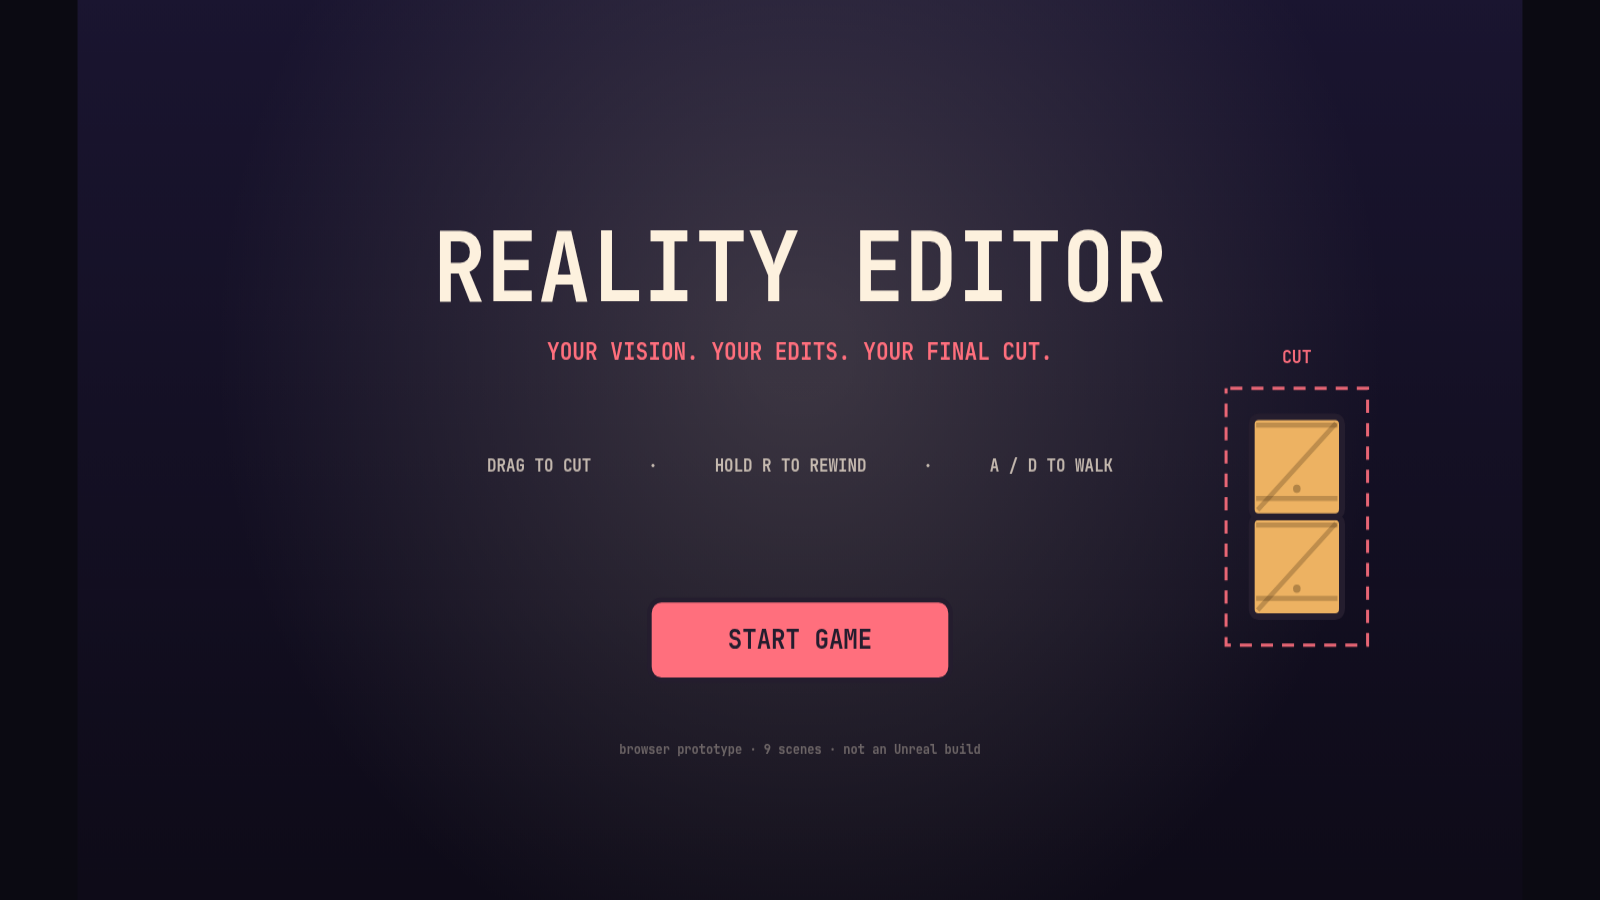
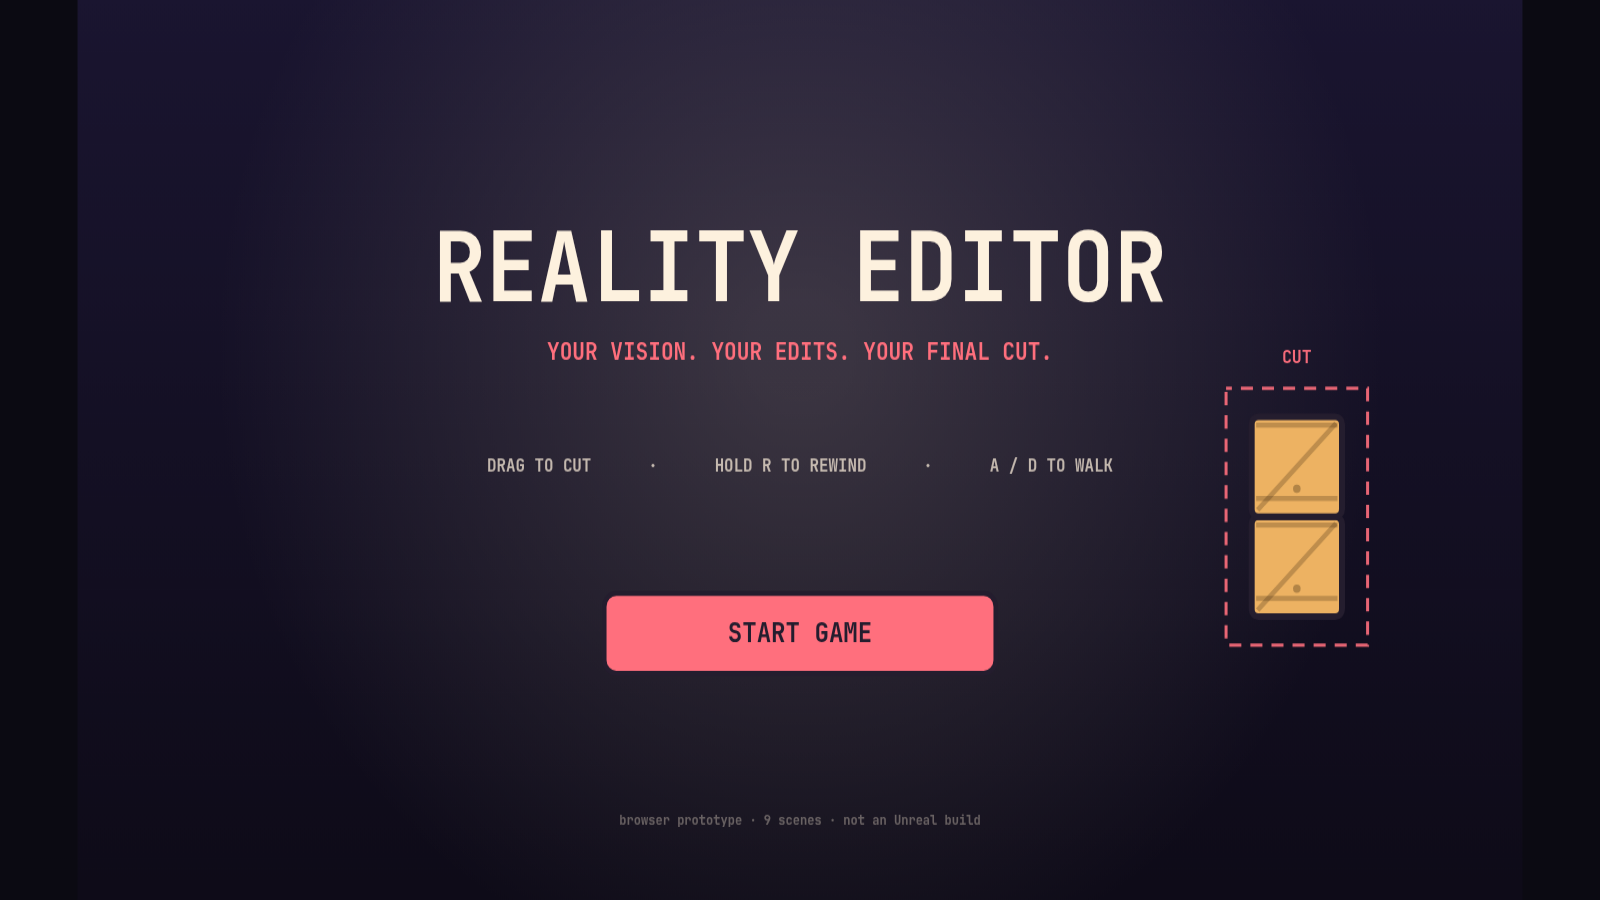
Save progress in localStorage and offer a continue button
The shoot now remembers the furthest scene unlocked, which scenes were cleared,
whether the run was finished and the best full-run time, so a player who closes
the tab can pick the run back up from the title screen. Reads are validated and
storage is optional: private mode, a strict itch iframe or a corrupt entry all
fall back to a blank save instead of breaking the game.

diff --git a/reality-editor/src/save.js b/reality-editor/src/save.js
@@ -1,0 +1,84 @@
+// Local progress, kept in localStorage.
+//
+// Nothing here is allowed to break the game: a browser that blocks storage
+// (private mode, file://, an embedded itch iframe with strict settings) simply
+// gets a blank save and no persistence. Every read is validated, so a stale or
+// hand-edited entry from an older build can't produce NaN or a scene index
+// that doesn't exist.
+
+const KEY = 'reality-editor.v1';
+
+const DEFAULTS = {
+  unlocked: 0,      // highest scene index the player may start from
+  cleared: [],      // scene indices finished at least once
+  best: null,       // { time } — fastest full run, in seconds
+  finished: false   // the ninth scene has been played through
+};
+
+function store() {
+  try {
+    const s = window.localStorage;
+    const probe = '__reality_editor_probe__';
+    s.setItem(probe, '1');
+    s.removeItem(probe);
+    return s;
+  } catch {
+    return null;
+  }
+}
+
+function clean(raw) {
+  const out = { ...DEFAULTS, cleared: [] };
+  if (!raw || typeof raw !== 'object') return out;
+
+  if (Number.isFinite(raw.unlocked)) {
+    out.unlocked = Math.max(0, Math.floor(raw.unlocked));
+  }
+  if (Array.isArray(raw.cleared)) {
+    out.cleared = [...new Set(raw.cleared.filter(n => Number.isInteger(n) && n >= 0))];
+    out.unlocked = Math.max(out.unlocked, ...out.cleared.map(n => n + 1), 0);
+  }
+  if (raw.best && Number.isFinite(raw.best.time) && raw.best.time > 0) {
+    out.best = { time: raw.best.time };
+  }
+  out.finished = !!raw.finished;
+  return out;
+}
+
+export function readSave() {
+  const s = store();
+  if (!s) return { ...DEFAULTS, cleared: [] };
+  try {
+    return clean(JSON.parse(s.getItem(KEY) || 'null'));
+  } catch {
+    return { ...DEFAULTS, cleared: [] };
+  }
+}
+
+export function writeSave(progress) {
+  const s = store();
+  if (!s) return false;
+  try {
+    const v = clean(progress);
+    s.setItem(KEY, JSON.stringify(v));
+    return true;
+  } catch {
+    return false;
+  }
+}
+
+export function clearSave() {
+  const s = store();
+  if (!s) return;
+  try {
+    s.removeItem(KEY);
+  } catch {
+    /* nothing to do */
+  }
+}
+
+// Clamp a saved scene index to the scenes this build actually has.
+export function resumeIndex(progress, levelCount) {
+  if (!levelCount) return 0;
+  return Math.min(Math.max(0, progress.unlocked | 0), levelCount - 1);
+}

diff --git a/reality-editor/src/game.js b/reality-editor/src/game.js
@@ -7,6 +7,7 @@ import { Player } from './player.js';
 import { Input } from './input.js';
 import { render, screenRectToWorld } from './render.js';
 import { audio } from './audio.js';
+import { readSave, writeSave, resumeIndex } from './save.js';
 
 const W = CONFIG.view.w;
 const H = CONFIG.view.h;
@@ -27,6 +28,7 @@ export function createGame(canvas, levelsOrLevel) {
   const view = { dpr: 1, scale: 1, ox: 0, oy: 0 };
   const cam = { x: 0, zoom: 1 };
 
+  const save = readSave();
   const world = new World(level);
   const player = new Player(level.spawn.x, level.spawn.y);
 
@@ -46,6 +48,7 @@ export function createGame(canvas, levelsOrLevel) {
     levelIndex: 0,
     levelCount: levels.length,
     level,
+    save,
     stats: null
   };
 
@@ -122,10 +125,17 @@ export function createGame(canvas, levelsOrLevel) {
     }
 
     if (game.state === 'title') {
+      const canContinue = save.unlocked > 0;
+      if (canContinue && hit(CONFIG.ui.titleContinue, click)) {
+        audio.init();
+        audio.click();
+        startRun(resumeIndex(save, levels.length));
+        return;
+      }
       if (jumpPressed || hit(CONFIG.ui.title, click)) {
         audio.init();
         audio.click();
-        startRun();
+        startRun(0);
       }
       return;
     }
@@ -256,10 +266,20 @@ export function createGame(canvas, levelsOrLevel) {
           blades: world.cutsLeft(),
           tape: world.tape
         };
+        save.cleared = [...new Set([...save.cleared, game.levelIndex])];
+
         if (game.levelIndex + 1 < levels.length) {
+          save.unlocked = Math.max(save.unlocked, game.levelIndex + 1);
+          writeSave(save);
           audio.chime();
           game.state = 'cleared';
         } else {
+          save.unlocked = Math.max(save.unlocked, game.levelIndex);
+          save.finished = true;
+          if (!save.best || game.stats.time < save.best.time) {
+            save.best = { time: game.stats.time };
+          }
+          writeSave(save);
           audio.win();
           game.state = 'won';
         }
@@ -299,6 +319,7 @@ export function createGame(canvas, levelsOrLevel) {
     view, cam, world, player, input, game,
     resize, step, draw,
     startRun, togglePause, nextLevel,
+    get save() { return save; },
     get level() { return level; },
     get state() { return game.state; }
   };

diff --git a/reality-editor/tests/tests.html b/reality-editor/tests/tests.html
@@ -419,6 +419,40 @@ st2(6);
 ok('finishing the last scene ends the run', g2.state === 'won',
   `${g2.world.level.label} ${g2.state}`);
 
+// ---- M. the save file ------------------------------------------------------
+const S = await import('../src/save.js');
+S.clearSave();
+ok('a fresh browser has no progress',
+  S.readSave().unlocked === 0 && !S.readSave().finished && S.readSave().best === null);
+
+// play scene 2 to its door and see what actually landed on disk
+g2.startRun(1);
+g2.player.place(g2.level.exit.x + 120, 726);
+st2(6);
+// (earlier tests in this page cleared other scenes, so check what this run added)
+const disk = S.readSave();
+ok('clearing a scene writes progress', disk.cleared.includes(1) && disk.unlocked >= 2,
+  `unlocked=${disk.unlocked} cleared=${disk.cleared}`);
+
+S.writeSave({ unlocked: 3, cleared: [0, 1, 2], best: { time: 312.4 }, finished: false });
+const s1 = S.readSave();
+ok('progress survives a reload', s1.unlocked === 3 && s1.cleared.length === 3 &&
+  Math.abs(s1.best.time - 312.4) < 1e-9);
+
+S.writeSave({ unlocked: 99, cleared: [0, 2, 2, 'x', -1], best: { time: 0 } });
+const s2 = S.readSave();
+ok('a damaged save is cleaned up', s2.cleared.length === 2 && s2.best === null,
+  JSON.stringify(s2));
+ok('a saved scene past the end is clamped down', S.resumeIndex(s2, 9) === 8,
+  `${S.resumeIndex(s2, 9)}`);
+
+localStorage.setItem('reality-editor.v1', '{not json');
+ok('an unreadable save is ignored', S.readSave().unlocked === 0);
+
+S.clearSave();
+ok('progress can be wiped', S.readSave().unlocked === 0 && S.readSave().best === null);
+ok('the title has a continue button', CONFIG.ui.titleContinue.length === 1);
+
 document.getElementById('out').textContent = out.join('\n');
 document.title = fail === 0 ? `TESTS PASS ${pass}/${pass}` : `TESTS FAIL ${fail}`;
 </script>

diff --git a/reality-editor/src/render.js b/reality-editor/src/render.js
@@ -820,9 +820,18 @@ function drawTitle(ctx, game, input, now) {
     'rgba(255,241,222,.72)', 'center');
 
   const b = CONFIG.ui.title[0];
-  drawButton(ctx, b, hovered(CONFIG.ui.title, input.pointer) === b, now);
+  const saved = game.save ? game.save.unlocked : 0;
+  const startLabel = saved > 0 ? 'START FROM SCENE 01' : b.label;
+  drawButton(ctx, { ...b, label: startLabel }, hovered(CONFIG.ui.title, input.pointer) === b, now);
 
-  text(ctx, `browser prototype · ${game.levelCount || 9} scenes · not an Unreal build`, 960, 900, 16,
+  if (saved > 0) {
+    const c = CONFIG.ui.titleContinue[0];
+    const sceneNo = String(saved + 1).padStart(2, '0');
+    drawButton(ctx, { ...c, label: `CONTINUE · SCENE ${sceneNo}` },
+      hovered(CONFIG.ui.titleContinue, input.pointer) === c, now);
+  }
+
+  text(ctx, `browser prototype · ${game.levelCount || 9} scenes · not an Unreal build`, 960, 985, 16,
     'rgba(255,241,222,.35)', 'center');
 }
 
@@ -861,6 +870,13 @@ function drawWon(ctx, game, input, cleared = false) {
     ['BLADES LEFT', `${st.blades}`],
     ['TAPE LEFT', `${st.tape.toFixed(1)}s`]
   ];
+
+  const best = game.save && game.save.best;
+  if (!cleared && best) {
+    const bm = Math.floor(best.time / 60);
+    const bs = Math.floor(best.time % 60);
+    rows.push(['BEST RUN', `${bm}:${String(bs).padStart(2, '0')}`]);
+  }
   rows.forEach((r, i) => {
     const y = 508 + i * 54;
     text(ctx, r[0], 780, y, 20, 'rgba(255,241,222,.55)', 'left');

diff --git a/reality-editor/src/config.js b/reality-editor/src/config.js
@@ -43,7 +43,8 @@ export const CONFIG = {
   respawn: { belowRoom: 260 },
 
   ui: {
-    title: [{ id: 'start', x: 760, y: 720, w: 400, h: 96, label: 'START GAME' }],
+    title: [{ id: 'start', x: 700, y: 712, w: 520, h: 96, label: 'START GAME' }],
+    titleContinue: [{ id: 'continue', x: 700, y: 832, w: 520, h: 84, label: 'CONTINUE' }],
     pause: [
       { id: 'resume', x: 660, y: 600, w: 600, h: 88, label: 'RESUME' },
       { id: 'restart', x: 660, y: 712, w: 600, h: 88, label: 'RESTART SCENE' }

diff --git a/reality-editor/tests/stage.html b/reality-editor/tests/stage.html
@@ -15,6 +15,13 @@ const q = new URLSearchParams(location.search);
 const scene = q.get('scene') || 'title';
 const lv = Number(q.get('level') || 0);
 
+// ?save=1 seeds local progress so the continue button and the best-run row
+// can be photographed
+if (q.get('save')) {
+  const { writeSave } = await import('../src/save.js');
+  writeSave({ unlocked: 4, cleared: [0, 1, 2, 3], best: { time: 214 }, finished: false });
+}
+
 const g = createGame(document.getElementById('game'), LEVELS);
 g.resize();
 

diff --git a/reality-editor/PROGRESS.md b/reality-editor/PROGRESS.md
@@ -97,6 +97,18 @@ while you hold R nothing refills.
 - When the drive wheel is cut and the sensor is not loaded, the hint says so:
 `THE LINE IS FROZEN OFF THE SENSOR` — *rewind past the cut* (or wait for tape).
 
+## The shoot list and the save file
+
+- **Nine scenes.** The studio plus eight, over forest / city / town / beach backdrops
+(`src/themes.js`, painted per location, still no image assets). Clearing a scene shows
+`SCENE CLEARED — n in the can · m to go` and loads the next; the ninth ends on the wrap card.
+- **Tape only refills once fully spent** (`world.rescue` latch), so the budget still bites.
+- **Progress is saved** to `localStorage` under `reality-editor.v1`: `unlocked` (furthest
+scene index), `cleared`, `best` (fastest full run) and `finished`. The title screen shows
+`CONTINUE · SCENE 0N` once anything is unlocked, and the wrap screen shows `BEST RUN`.
+- Every save read is validated and stored in a try/catch, so private mode, a strict itch
+iframe, corrupt JSON or a hand-edited entry all degrade to a blank save instead of a crash.
+
 ## Tuning findings from playing it through
 
 - **Tape was too short.** The intended route costs roughly 6s of tape rewinding the dolly and 7s parking the load, and the bot run with a 20s budget ran dry inside scene 3. `maxTape` is now **30**, which keeps the pressure without making the last puzzle unaffordable.
@@ -109,9 +121,12 @@ while you hold R nothing refills.
 - Touch layout is drawn and wired but was not exercised on a real touch device.
 - The win state is reachable only through the intended puzzle order (the corridor is gated); if a player exhausts all tape in scene 3 they restart with Backspace, which is always available.
 - The sensor window in scene 3 is generous (80px), but the load leaves it again as soon as the clock runs forward, so the cut has to land while the load is parked over the pad.
+- Save data is per browser and per origin. Local progress under `localhost:8124` does not
+carry over to the itch embed, which runs on a different origin.
+- The save has no in-game reset button yet; clearing site data is the only wipe.
 
 ## Next steps
 
 1. Play all nine scenes by hand and tune tape/blade numbers (config only).
-2. Add a second room if the mechanics hold up.
+2. Playtest scenes 3–9 by hand at real speed and tune their gaps and tape costs.
 3. Start the Unreal port from `UNREAL_PORT_PLAN.md`.

diff --git a/reality-editor/ITCH_PAGE.md b/reality-editor/ITCH_PAGE.md
@@ -4,7 +4,7 @@ Everything needed for the page is built by `python3 tools/make_itch_release.py`:
 
 | File | What it is | Where it goes on itch |
 |---|---|---|
-| `dist/RealityEditor_web.zip` (18 KiB) | The HTML5 build, `index.html` at the top level, 10 files total | Uploads → check **“This file will be played in the browser”** |
+| `dist/RealityEditor_web.zip` (26 KiB) | The HTML5 build, `index.html` at the top level, 13 files total | Uploads → check **“This file will be played in the browser”** |
 | `dist/itch-media/cover.png` (630×500) | Cover art | Cover image |
 | `dist/itch-media/screen-wall.png` … `screen-title.png` (1280×720) | Five screenshots | Screenshots |
 | `gameplay.webm` (~36 s, 1280×577) | Gameplay clip | **Not directly uploadable** — see *Video* below |
@@ -76,8 +76,9 @@ Click the game once so it has keyboard focus.
 
 A browser prototype: Canvas 2D, no engine, no libraries, no image assets — every sound is
 synthesised in code. Nine scenes over four backdrop sets (studio, forest, city, town,
-beach), about five to fifteen minutes in total. Built as a design proof for a larger
-version, so the scenes are short on purpose.
+beach), about five to fifteen minutes in total. Progress and your best full run are saved in
+your browser, so CONTINUE on the title screen picks up at the last scene you reached. Built
+as a design proof for a larger version, so the scenes are short on purpose.
 ```
 
 ## 3. Video
@@ -96,7 +97,7 @@ Only the account-owned actions — I can't sign in as you, and I won't ask for c
 
 1. **Log in to itch.io** (or create the account) and create the project.
 2. **Upload** `dist/RealityEditor_web.zip` and tick the browser-playable box.
-3. **Upload the media**: cover, the five screenshots, and the video link (after putting the clip on YouTube).
+3. **Upload the media**: cover, the nine screenshots, and the video link (after putting the clip on YouTube).
 4. **Fill the metadata** listed in section 1 — genre, tags, inputs, session length, release date.
 5. **Answer itch's AI-content disclosure** honestly. The truthful answer: the code, visuals and audio were produced with an AI coding agent, with no third-party IP. That question is on you to answer, not me.
 6. **Publish.** Publish sets the page live; a draft is invisible, so nothing is exposed until you press it.

diff --git a/README.md b/README.md
@@ -34,6 +34,18 @@ It needs to be served over HTTP (it uses ES modules), not opened from the filesy
 On touch screens the move, jump and rewind buttons appear on screen; drag anywhere else to
 cut. Falling respawns you at the last checkpoint — it does not reset your cuts or your tape.
 
+## Progress
+
+The game saves to the browser's `localStorage` (`reality-editor.v1`): the furthest scene
+you unlocked, which scenes you have cleared, whether you finished, and your best full-run
+time. The title screen grows a **CONTINUE · SCENE 0N** button once something is unlocked, and
+the wrap screen shows your best run.
+
+Storage is optional, never required: a blocked or full storage backend (private mode, a
+strict iframe embed) means the game simply doesn't persist. Every read is validated, so a
+corrupt or hand-edited entry falls back to a blank save. Clearing your browser's site data
+wipes it; there is no other copy.
+
 ## The nine scenes
 
 Every scene hands you a full tape and four blades. Cutting spends a blade; rewinding
@@ -62,9 +74,9 @@ cd reality-editor
 ./tests/run-tests.sh
 ```
 
-94 assertions over the mechanics, all nine scenes and the progression between them, plus a
-check that runs the real `requestAnimationFrame` loop in headless Chromium and plays it with
-real input.
+102 assertions over the mechanics, all nine scenes, the progression between them and the
+save file, plus a check that runs the real `requestAnimationFrame` loop in headless Chromium
+and plays it with real input.
 
 ## Layout
 
@@ -72,7 +84,7 @@ real input.
 reality-editor/
   index.html      the game page
   src/            config, levels (the shoot list), themes (backdrops), world (clock + cuts),
-                  player, input, render, game, audio
+                  player, input, render, game, audio, save (localStorage progress)
   tests/          assertions, real-loop check, staged screenshot scenes, recording bot
   dist/           itch.io release zip, cover and screenshots
   PROGRESS.md     build log, test evidence, known limits
